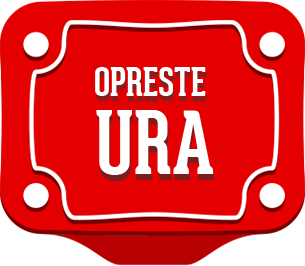
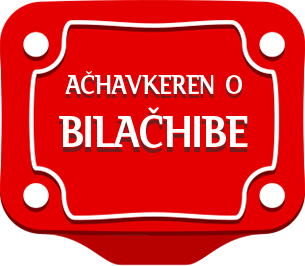
asd

Changed region(s): [[0.177, 0.2406, 0.8262, 0.6917], [0.7377, 0.2707, 0.7967, 0.391]]

diff --git a/2/pullthebrake-bos3.html b/2/pullthebrake-bos3.html
@@ -56,10 +56,15 @@
 
           <section id="intro">
 
-           <h1>Lufto urrejtjen kundër Romëve</h1>
+           <h1>Mržnja je opasno oružje!</h1>
 
-           <p>Urrejtja apo e folura me urrejtje ka ekzistuar ne Europë prej një kohe të gjatë. Është nje form diskriminimi, e cila mund të coj në agresion, kërcënime dhe dhunë.  Dhuna etnike, qoftë kërcënim me fjalë apo kërcënim fizik, fillon me urrejtjen. E folura me urrejtje është hapi i parë ndërkohë edhe me I lehti për tu parandaluar/ndaluar.
-Le të ndalojmë dhunën menjëherë/TANI!</p>
+           <p>Govor mržnje postoji u Evropi već dugo vremena. 
+		   To je forma diskriminacije koja može voditi ka agresivnosti, uvredama i nasilju.	
+		   <br>
+		   Etničko nasilje, koje je opasnost ili prijetnja, počinje sa govorom mržnje. 
+		   Govor mržnje je samo prvi korak, ali i onaj kojeg je najlakše zaustaviti. 
+		  <br>
+           Zaustavimo govor mržnje odmah!</p>
 
           </section>
 
@@ -67,7 +72,8 @@ Le të ndalojmë dhunën menjëherë/TANI!</p>
 
            <img src="a_data/speech.png" class="infogfx">
 
-           <p>Një në katër Romë  ka vuajtur nga e folura me urrejtje kundrejt tyre, të paktën një në vitet e fundit dhe cdo një në pesë prej tyre bie viktimë e krimeve/dhunës raciste?( qofshin tentim për dhunë fizike, kërcënime apo fyerje). Shumica e Romëve përmendin një mesatare prej 4 incidentesh të tilla.</p>
+           <p>Svaki četvrti pripadnik romske populacije je doživio govor mržnje barem 
+		   jednom u protekloj godini, a svaki peti je bio žrtva rasističkog napada.</p>
 
          </section>
 
@@ -75,10 +81,16 @@ Le të ndalojmë dhunën menjëherë/TANI!</p>
 
            <img src="a_data/hate.png" class="infogfx">
 
-           <p>54.7% e famlijeve Rome në Shqipëri thonë se nuk kanë mundësi t’i mbështesin financiarisht fëmijët e tyre.
-Romët janë zakonisht të përjashtuar nga programet sociale.
-Diskriminimi në spitale dekurajon komunitetin Romë të ngrenë problemet shëndetësore. Vetëm 76% e Romëve krahasuar me 93%e jo-Romëve janë vaksinuar kundër polimielitit dhe sëmundjeve të tjera. 
-</p>
+           <p>U Bosni i Hercegovini, prema informacijama OSCE živi između 10.000 i 50. 000 Roma. Prema podacima Romskih udruženja, taj broj iznosi 80.000, te su time najbrojnija od 17 nacionalnih manjina u BiH.
+		   <ul>70 % Roma ne može priuštiti osnove za život, te živi ispod granice siromaštva;</ul>
+		   <ul>Dvije trećine  Roma ne posjeduje dokumentaciju kojom imaju pravo na zdravstveno osiguranje i zaštitu</ul>
+		   <ul>54 % romske populacije je nezaposleno</ul>
+		   <ul>Tek 10 % Roma završi srednju školu</ul>
+		   <ul>Oko 18% odraslih Roma u BiH je nepismeno</ul>
+		   <ul>Najveći broj romske djece nema pristupi obrazovanju iz socijalnih razloga.
+		   
+</ul>
+		   </p>
 
          </section>
 
@@ -86,7 +98,9 @@ Diskriminimi në spitale dekurajon komunitetin Romë të ngrenë problemet shën
 
            <img src="a_data/work.png" class="infogfx">
 
-           <p>Një në tre Romë në Shqipëri kanë përjetuar diskriminim në vendin e punës dhe një në pësë e kanë përjetuar atë në shkollë.</p>
+           <p>Polovina romske djece koja su dovoljno stara da se upišu u osnovnu školu pohađa prvi razred (47 %). Djeca odgovarajućeg uzrasta za školu koja žive u domaćinstvima čiji nositelj govori romski kao maternji jezik, u manjem procentu pohađaju prvi razred osnovne škole (39 %), u odnosu na djecu koja žive u domaćinstvima čiji nositelj ne govori romski kao maternji jezik (59 %).
+		   </p>
+		   <p>Organizovane programe obrazovanja u ranom djetinjstvu pohađa samo 2 %  romske djece uzrasta od 36 do 59 mjeseci, među kojima približno isti postotak dječaka i djevojčica. (izvor: http://www.bhas.ba/ankete/MICS4_BiH_romska_populacija_ZavrsniIzvjestaj_2011-12.lok.pdf)</p>
 
          </section>
 
@@ -94,16 +108,20 @@ Diskriminimi në spitale dekurajon komunitetin Romë të ngrenë problemet shën
 
            <img src="a_data/help.png" class="infogfx">
 
-           <p>86% e Romëve të pyetur në  studim nuk dine ku të kërkojnë për ndihmë.</p>
+           <p>U jednom ispitivanju, 86 % Roma nije znalo gdje potražiti pomoć. </p>
 
-           <p class="small"><a href="http://fra.europa.eu/sites/default/files/fra_uploads/413-EU-MIDIS_ROMA_EN.pdf" target="_blank">(Burimi:  EU research(FRA) on minorities and discrimination from 2009)</a></p>
+           <p class="small"><a href="http://www.osce.org/hr/bih/110078?download=true" target="_blank">(Izvor: OSCE)</a></p>
 
           <section id="call-to-action">
 
-            <a href="https://sq.wikipedia.org/wiki/Rom%C3%ABt" target="_blank">Zbulo më tepër rreth Romëve në Shqipëri.</a><br>
-            <a href="https://www.facebook.com/nohatespeechalbania" target="_blank">Fushata paraqet pikëpamje të autorëve të artikujve dhe mutlimediave të caktuara.</a><br>
-            
-            <p>Nëse keni ndonjë koment, opinion apo tweet përdor/shkruaj #ndalodhunën</p>
+            <h1>Zaustavimo mržnju prema Romima! </h1>
+
+            <p><a href="http://beznienawisci.pl/kampania/#tab-id-4" target="_blank">Šta je govor mržnje?</a><br>
+            <a href="http://www.romowie.com/" target="_blank">Nauči više o Romima u BiH </a><br>
+            <a href="http://beznienawisci.pl/" target="_blank">Kampanja protiv mržnje</a><br>
+            <a href="http://www.modanatolerancje.romowie.com/index.php/interwencja/" target="_blank">Prijavi mržnju</a></p>
+
+            <p>Ukoliko imate komentar, ideju ili tweet koristite #stophate</p>
 
           </section>
 
@@ -114,9 +132,9 @@ Diskriminimi në spitale dekurajon komunitetin Romë të ngrenë problemet shën
 			</section>
 		
 			<section id="about">
-            <p>Ky projekt mbështetet nga Fondacioni "Remembrance, Responsibility and Future" dhe Humanity in Action.</p>
+            <p>Ovaj projekat je podržan od Fondacije "Sjećanje, Odgovornost, Budućnost" i Humanost u Akciji.</p>
 
-            <p>Ky publikim nuk është shprehje e mendimeve nga Fondacioni "Remembrance, Responsibility and Future" apo  Humanity in Action.  Vetëm autorët mbajnë përgjegjësi për përmbajtjen.</p>
+            <p>Ova publikacija ne izražava stavove Fondacije "Sjećanje, Odgovornost, Budućnost" ili Humanost u Akciji. Autori su iskljućivo odgovorni za sadržaj.</p>
 
             <p class="small">Lightning icon designed by <a href="http://www.thenounproject.com/Madebyelvis/" target="_blank">Madebyelvis</a>, briefcase icon designed by <a href="http://www.thenounproject.com/kamaru87/" target="_blank">Moh Kamaru</a>, broken heart icon designed by <a href="http://www.thenounproject.com/tlb/" target="_blank">Thomas Le Bas</a>. All other content is released under a <a href="http://creativecommons.org/licenses/by/4.0/legalcode" target="_blank">Creative Commons Attribution 4.0 International license</a>.</p>
 

diff --git a/2/pullthebrake-bos2.htm b/2/pullthebrake-bos2.htm
@@ -15,7 +15,7 @@
     <meta name="description" content=" ">
 
     <meta property="og:url" content="http://pullthebrake.eu/">
-    <meta property="og:title" content="Zastopuj Hejt Przeciwko Romom">
+    <meta property="og:title" content="Zaustavimo mržnju prema Romima!">
     <meta property="og:description" content=" ">
     <meta property="og:type" content="website">
     
@@ -29,7 +29,7 @@
     <meta property="og:image" content="http://pullthebrake.eu/img/fav/facebook.jpg">
     <link rel="image_src" href="http://www.peng-collective.net/pullthebrake/img/fav/facebook.jpg">
 
-    <title>Zastopuj Hejt Przeciwko Romom</title>
+    <title>Zaustavimo mržnju prema Romima!</title>
 
     <link href="a_data/css.css" rel="stylesheet" type="text/css">
     
@@ -116,11 +116,9 @@
 
             <h1>Zaustavimo mržnju prema Romima! </h1>
 
-            <p><a href="http://beznienawisci.pl/kampania/#tab-id-4" target="_blank">Šta je govor mržnje?</a><br>
-            <a href="http://www.romowie.com/" target="_blank">Nauči više o Romima u BiH </a><br>
-            <a href="http://beznienawisci.pl/" target="_blank">Kampanja protiv mržnje</a><br>
-            <a href="http://www.modanatolerancje.romowie.com/index.php/interwencja/" target="_blank">Prijavi mržnju</a></p>
-
+            <a href="https://bs.wikipedia.org/wiki/Romi" target="_blank">Nauči više o Romima u BiH </a><br>
+            <a href="https://www.facebook.com/pages/No-Hate-Speech-Movement-Bosnia-and-Herzegovina/573012836077856" target="_blank">Kampanja protiv mržnje</a><br>
+            
             <p>Ukoliko imate komentar, ideju ili tweet koristite #stophate</p>
 
           </section>

diff --git a/2/pullthebrake-alb3.html b/2/pullthebrake-alb3.html
@@ -100,9 +100,11 @@ Diskriminimi në spitale dekurajon komunitetin Romë të ngrenë problemet shën
 
           <section id="call-to-action">
 
+            <p><a href="http://beznienawisci.pl/kampania/#tab-id-4" target="_blank">Cfarë është e folura me urrejte?</a><br>
             <a href="https://sq.wikipedia.org/wiki/Rom%C3%ABt" target="_blank">Zbulo më tepër rreth Romëve në Shqipëri.</a><br>
             <a href="https://www.facebook.com/nohatespeechalbania" target="_blank">Fushata paraqet pikëpamje të autorëve të artikujve dhe mutlimediave të caktuara.</a><br>
-            
+            <a href="http://www.modanatolerancje.romowie.com/index.php/interwencja/" target="_blank">Raporto urrejtje</a></p>
+
             <p>Nëse keni ndonjë koment, opinion apo tweet përdor/shkruaj #ndalodhunën</p>
 
           </section>

diff --git a/index2#.html b/index2#.html
@@ -61,8 +61,11 @@
 			
 			<p><a href="pullthebrake-bos.html">Bosanski</a></p>
 			<p><a href="pullthebrake-bul.html">Български</a></p>
+			<p><a href="pullthebrake-cro.html">Hrvatski</a></p>
 			<p><a href="pullthebrake-gre.html">Ελληνικά</a></p>
+			<p><a href="pullthebrake-mak.html">Македонски</a></p>
 			<p><a href="pullthebrake-rom.html">Română</a></p>
+			<p><a href="pullthebrake-rma.html">Romani</a></p>
 			<p><a href="pullthebrake-alb.html">Shqip</a></p>
 			<p><a href="pullthebrake-slo.html">Slovenčina</a></p>
 			<p><a href="pullthebrake-ser.html">Српски / srpski</a></p>
